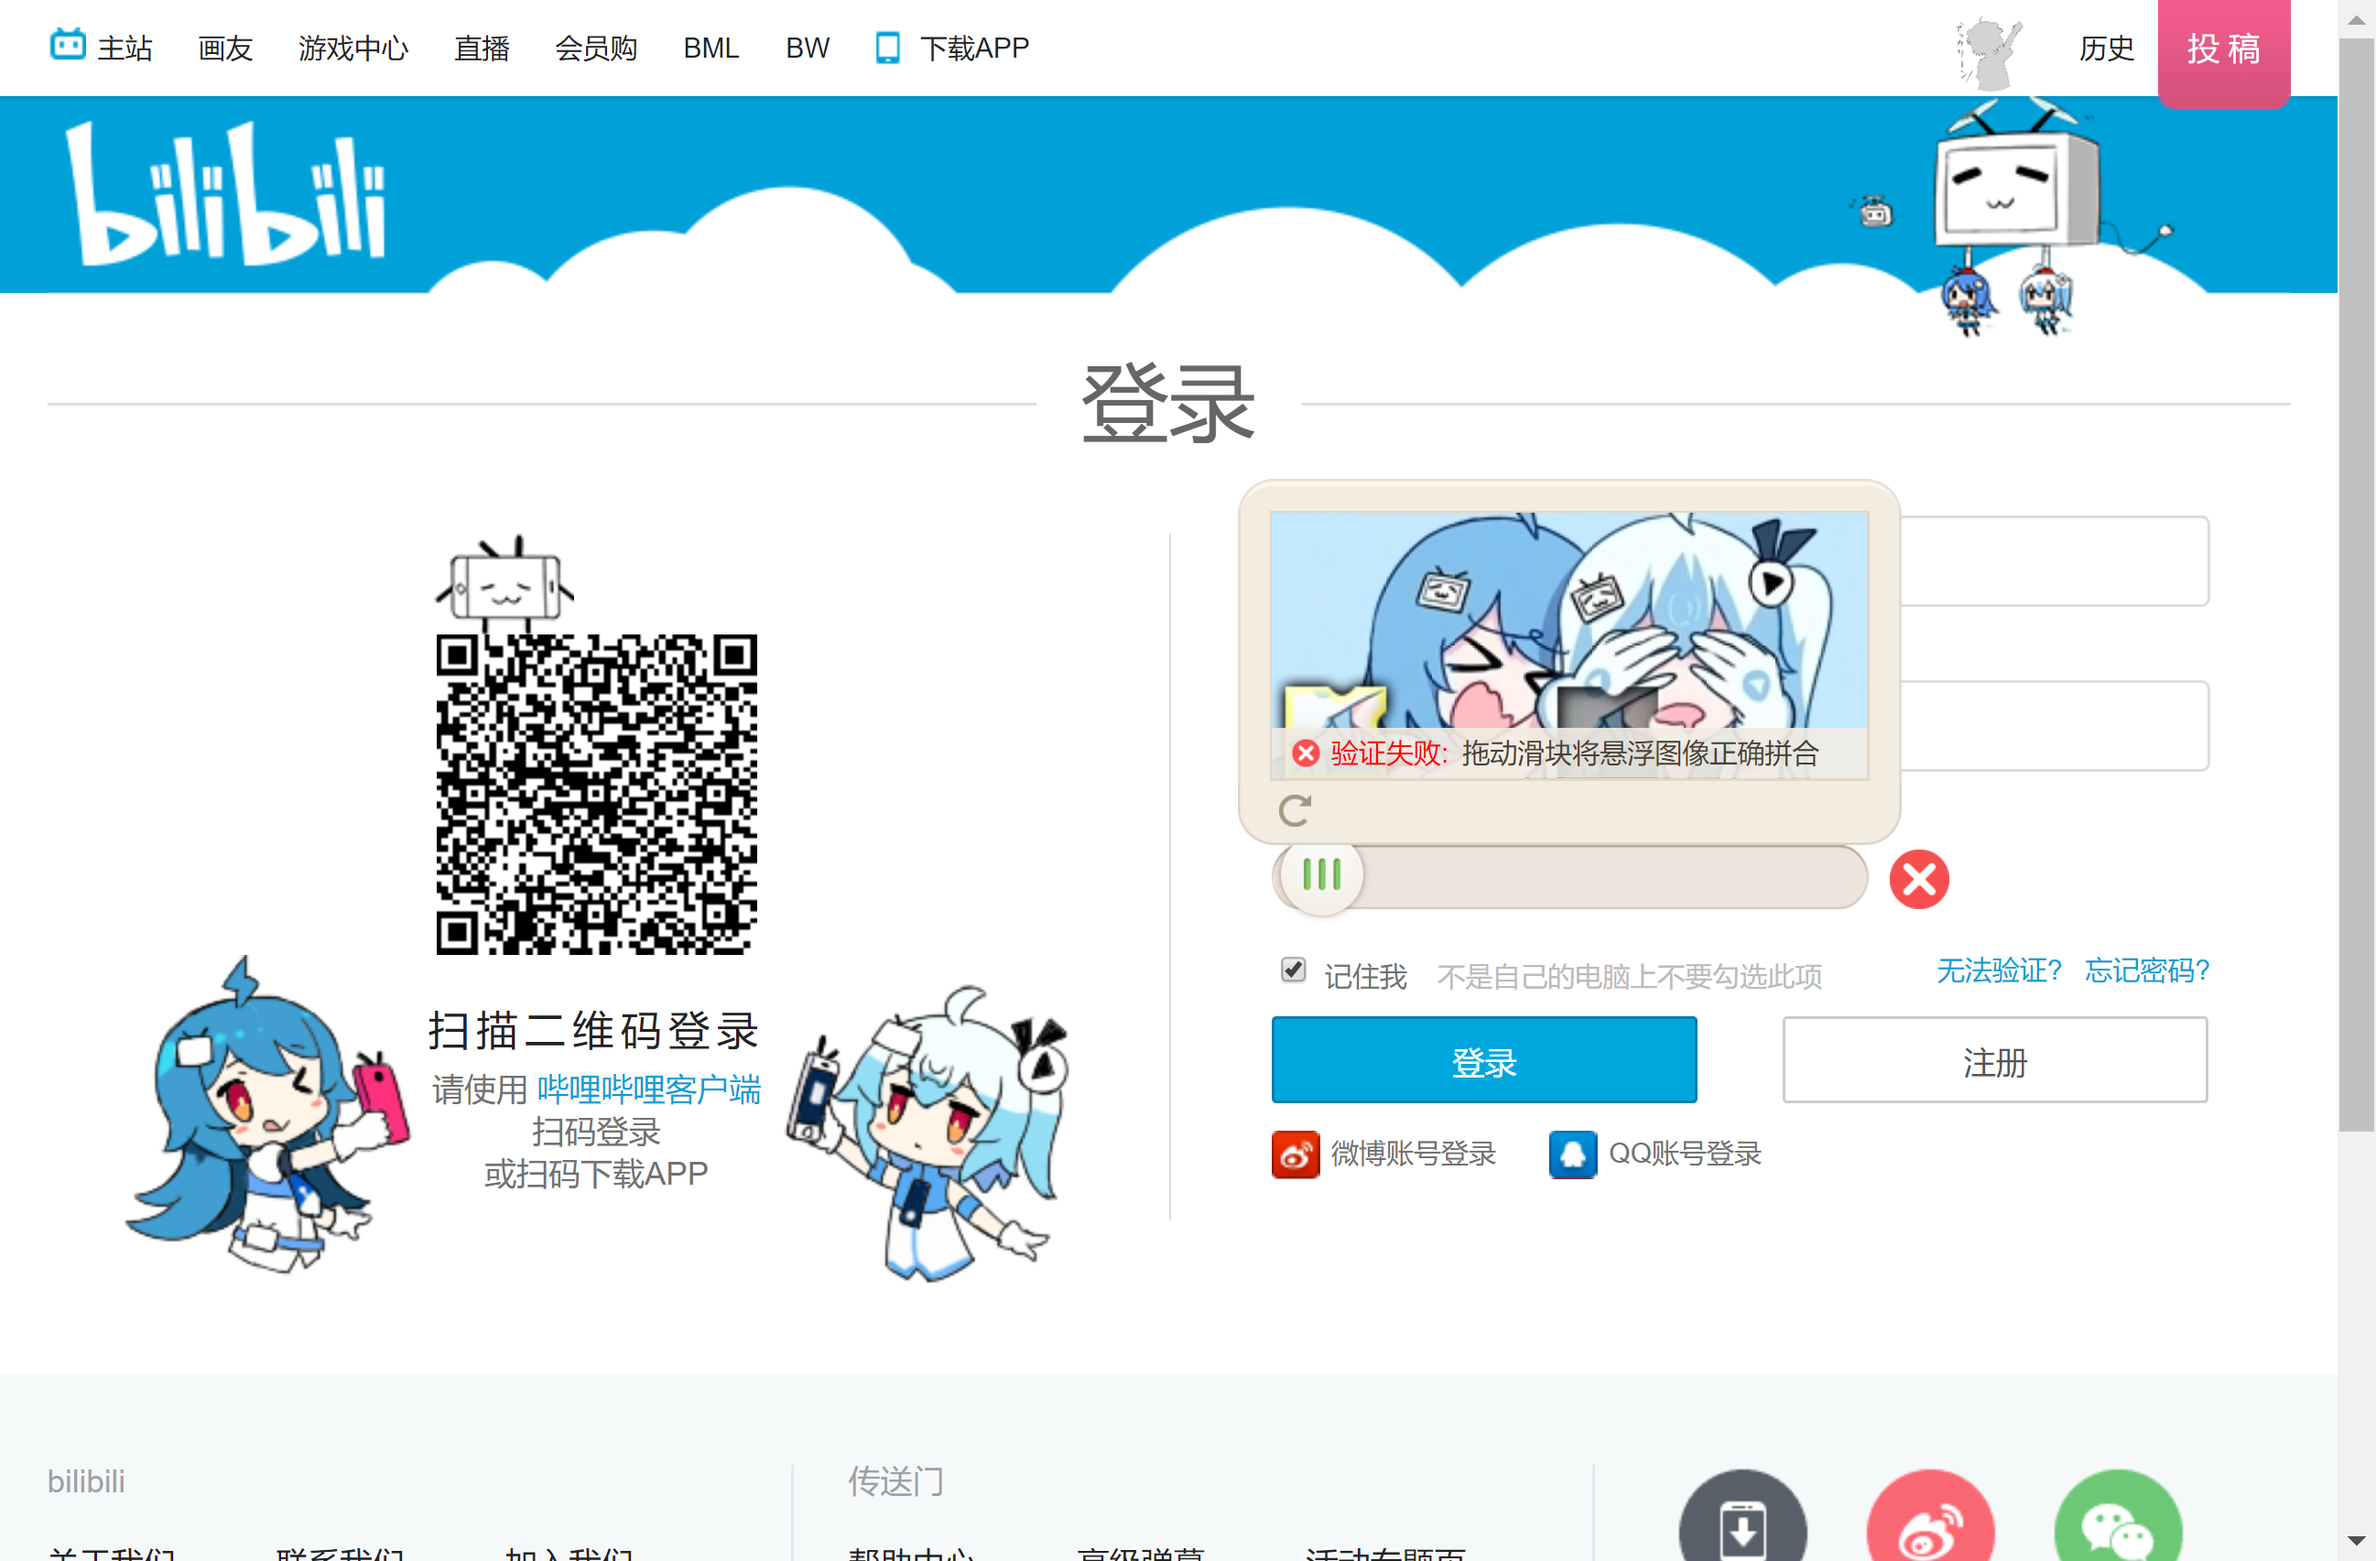
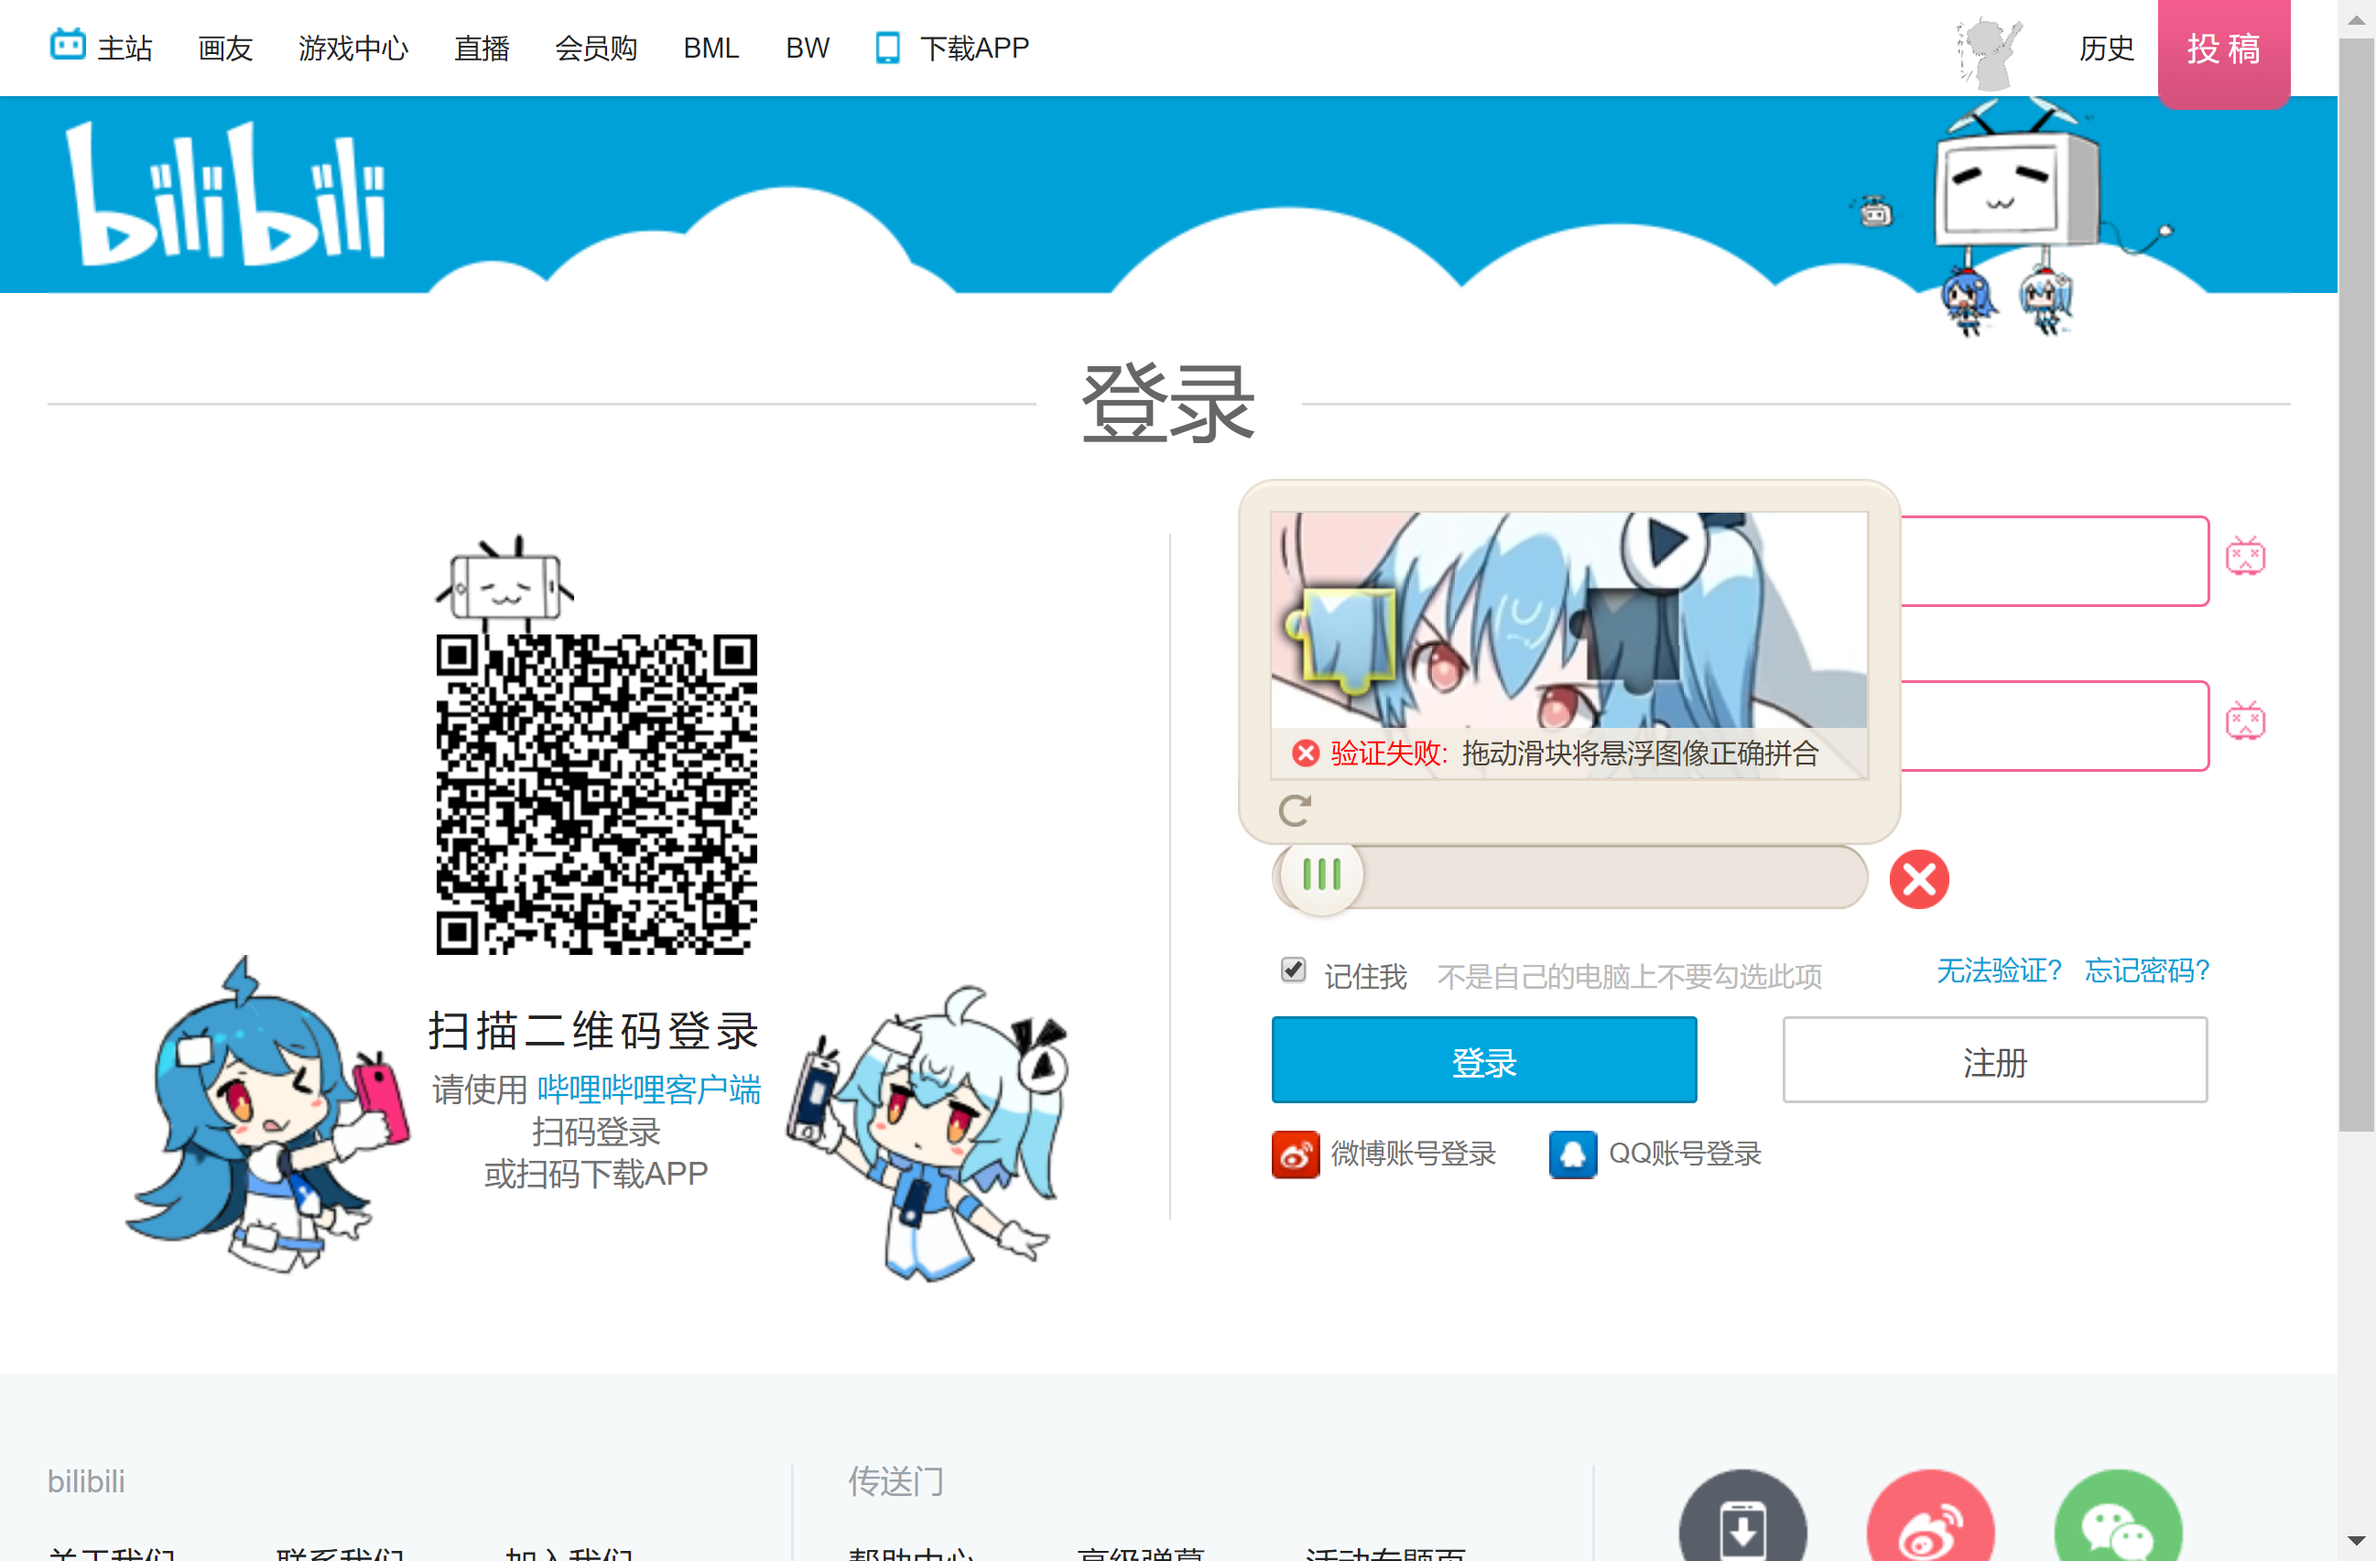
None

diff --git a/IdentifyingCodeCheck/IdentifyingCodeCheck.py b/IdentifyingCodeCheck/IdentifyingCodeCheck.py
@@ -49,20 +49,30 @@ def GetDistance(RGBList_1, RGBList_2):
     conform = []
     for iter_height in range(cropped_im_size[1]):
         either = 0
+
         for iter_width in range(cropped_im_size[0] - 100):
             NOW_RGB_1 = RGBList_1[iter_height * cropped_im_size[0] + iter_width]
             NOW_RGB_2 = RGBList_2[iter_height * cropped_im_size[0] + iter_width]
             if NOW_RGB_1 != NOW_RGB_2:
                 either += 1
                 if either >= either_threshold:
+                    either_two = True
                     if len(conform) != 0 and iter_width - conform[-1] < jump_threshold:
                         continue
-                    conform.append(iter_width - either_threshold)
-                    either = 0
+                    point_width = iter_width - either_threshold
+                    for iter_height_two in range(1, 40):
+                        NOW_RGB_1 = RGBList_1[(iter_height + iter_height_two) * cropped_im_size[0] + point_width]
+                        NOW_RGB_2 = RGBList_2[(iter_height + iter_height_two) * cropped_im_size[0] + point_width]
+                        if NOW_RGB_1 == NOW_RGB_2:
+                            either_two = False
+                            break
+                    if either_two:
+                        conform.append(point_width)
+                        either = 0
             else:
                 either = 0
     print(conform)
-    return conform[0] + 120
+    return conform[0] + 135
 
 def GetTrack(distance):
     v0 = 0
